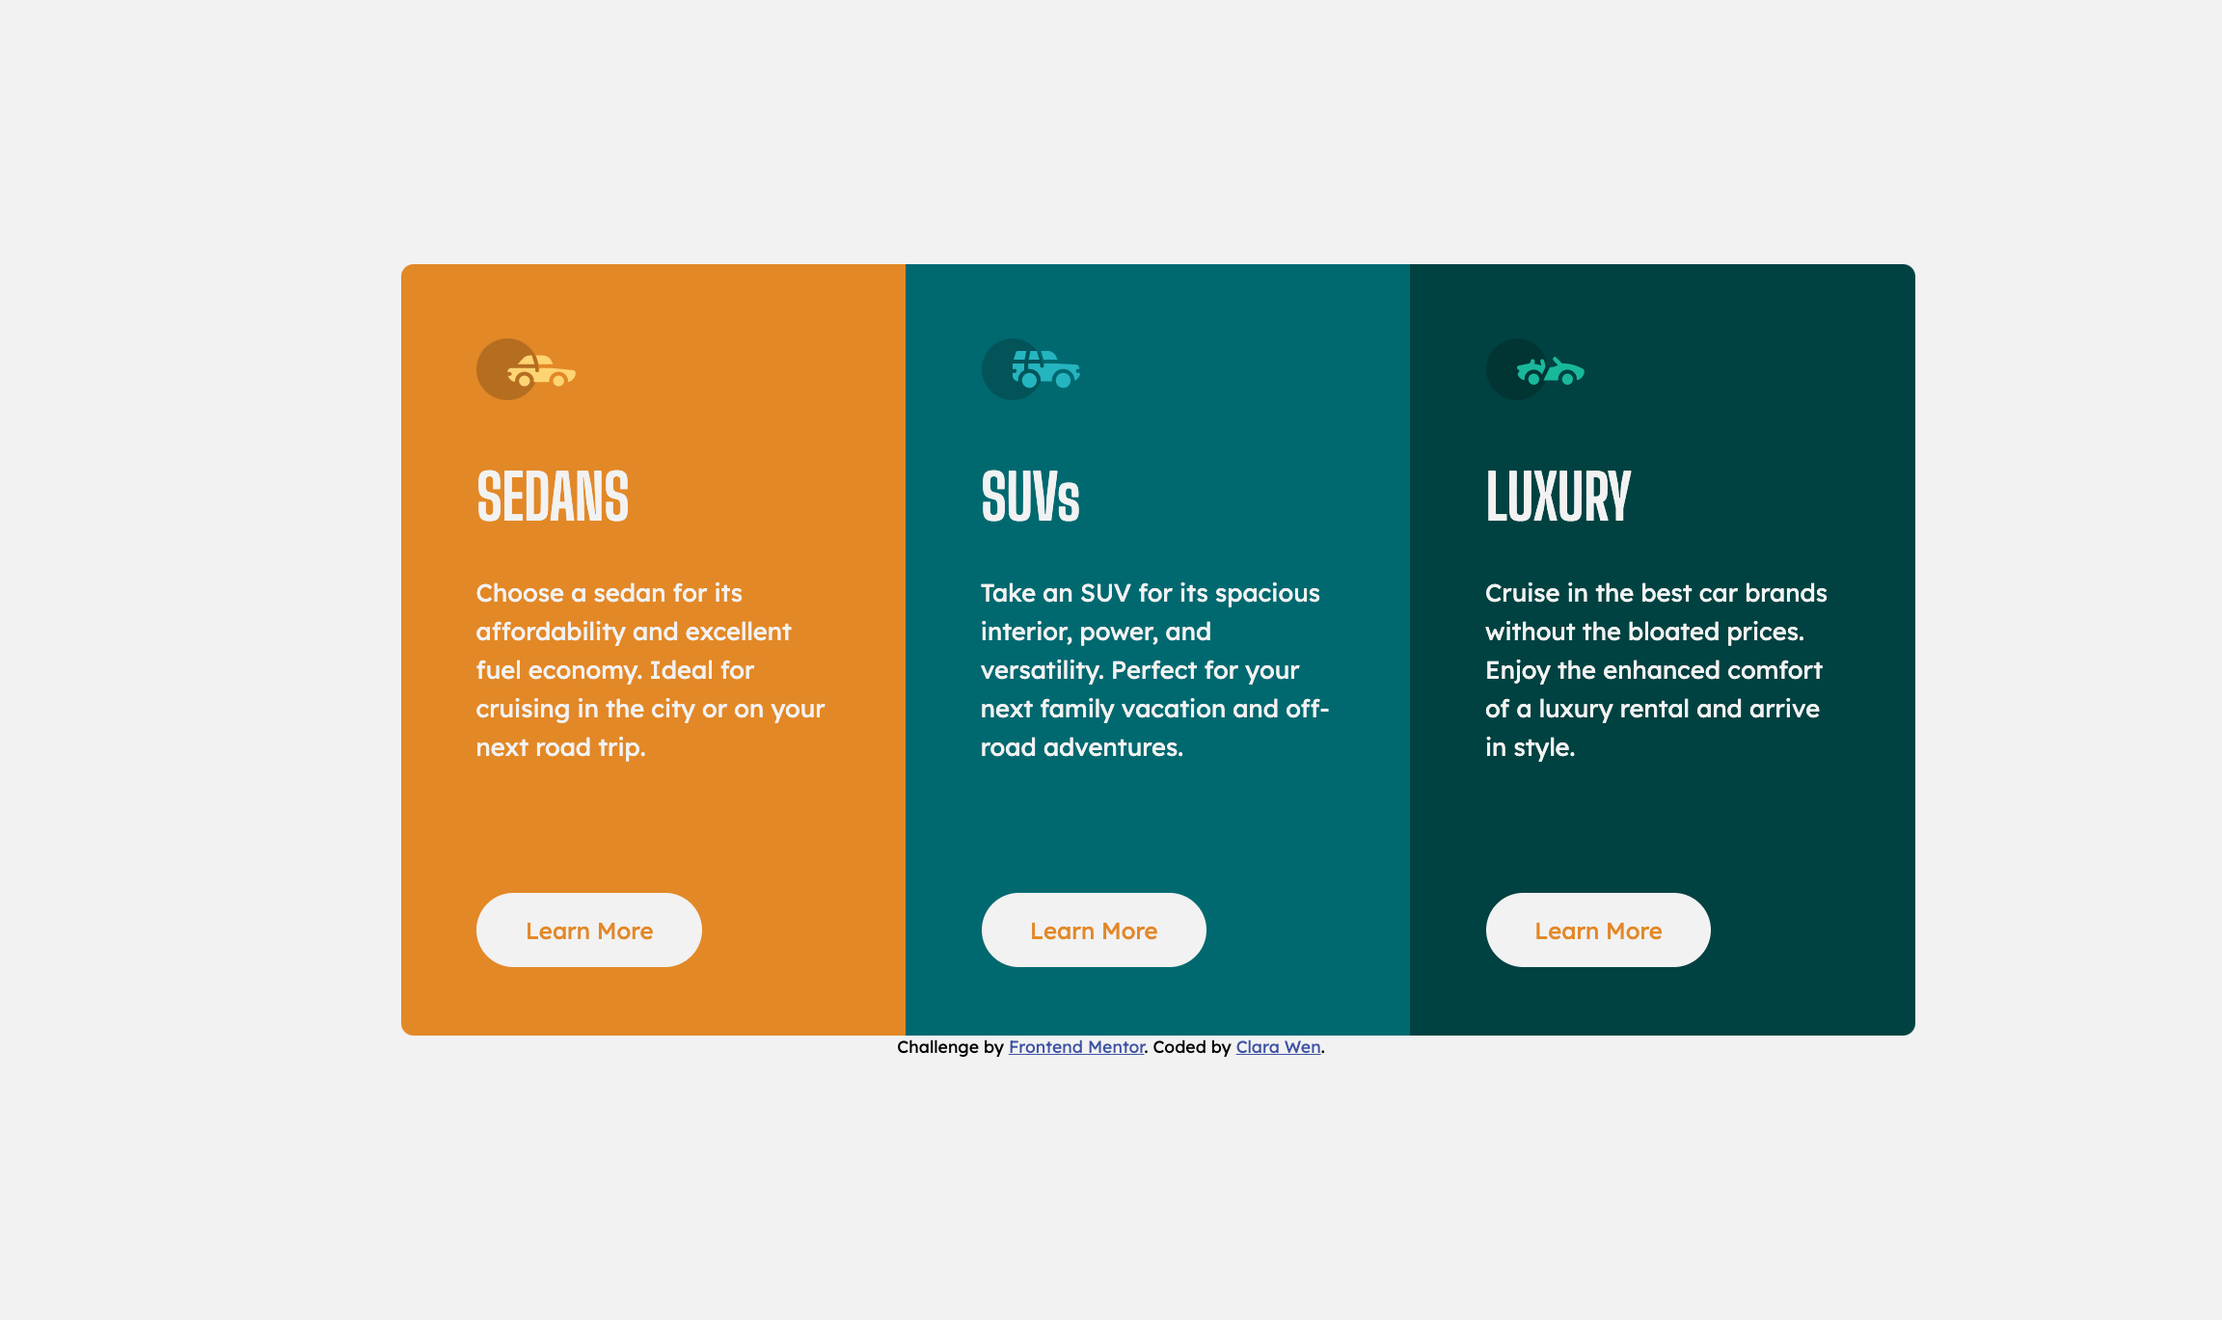
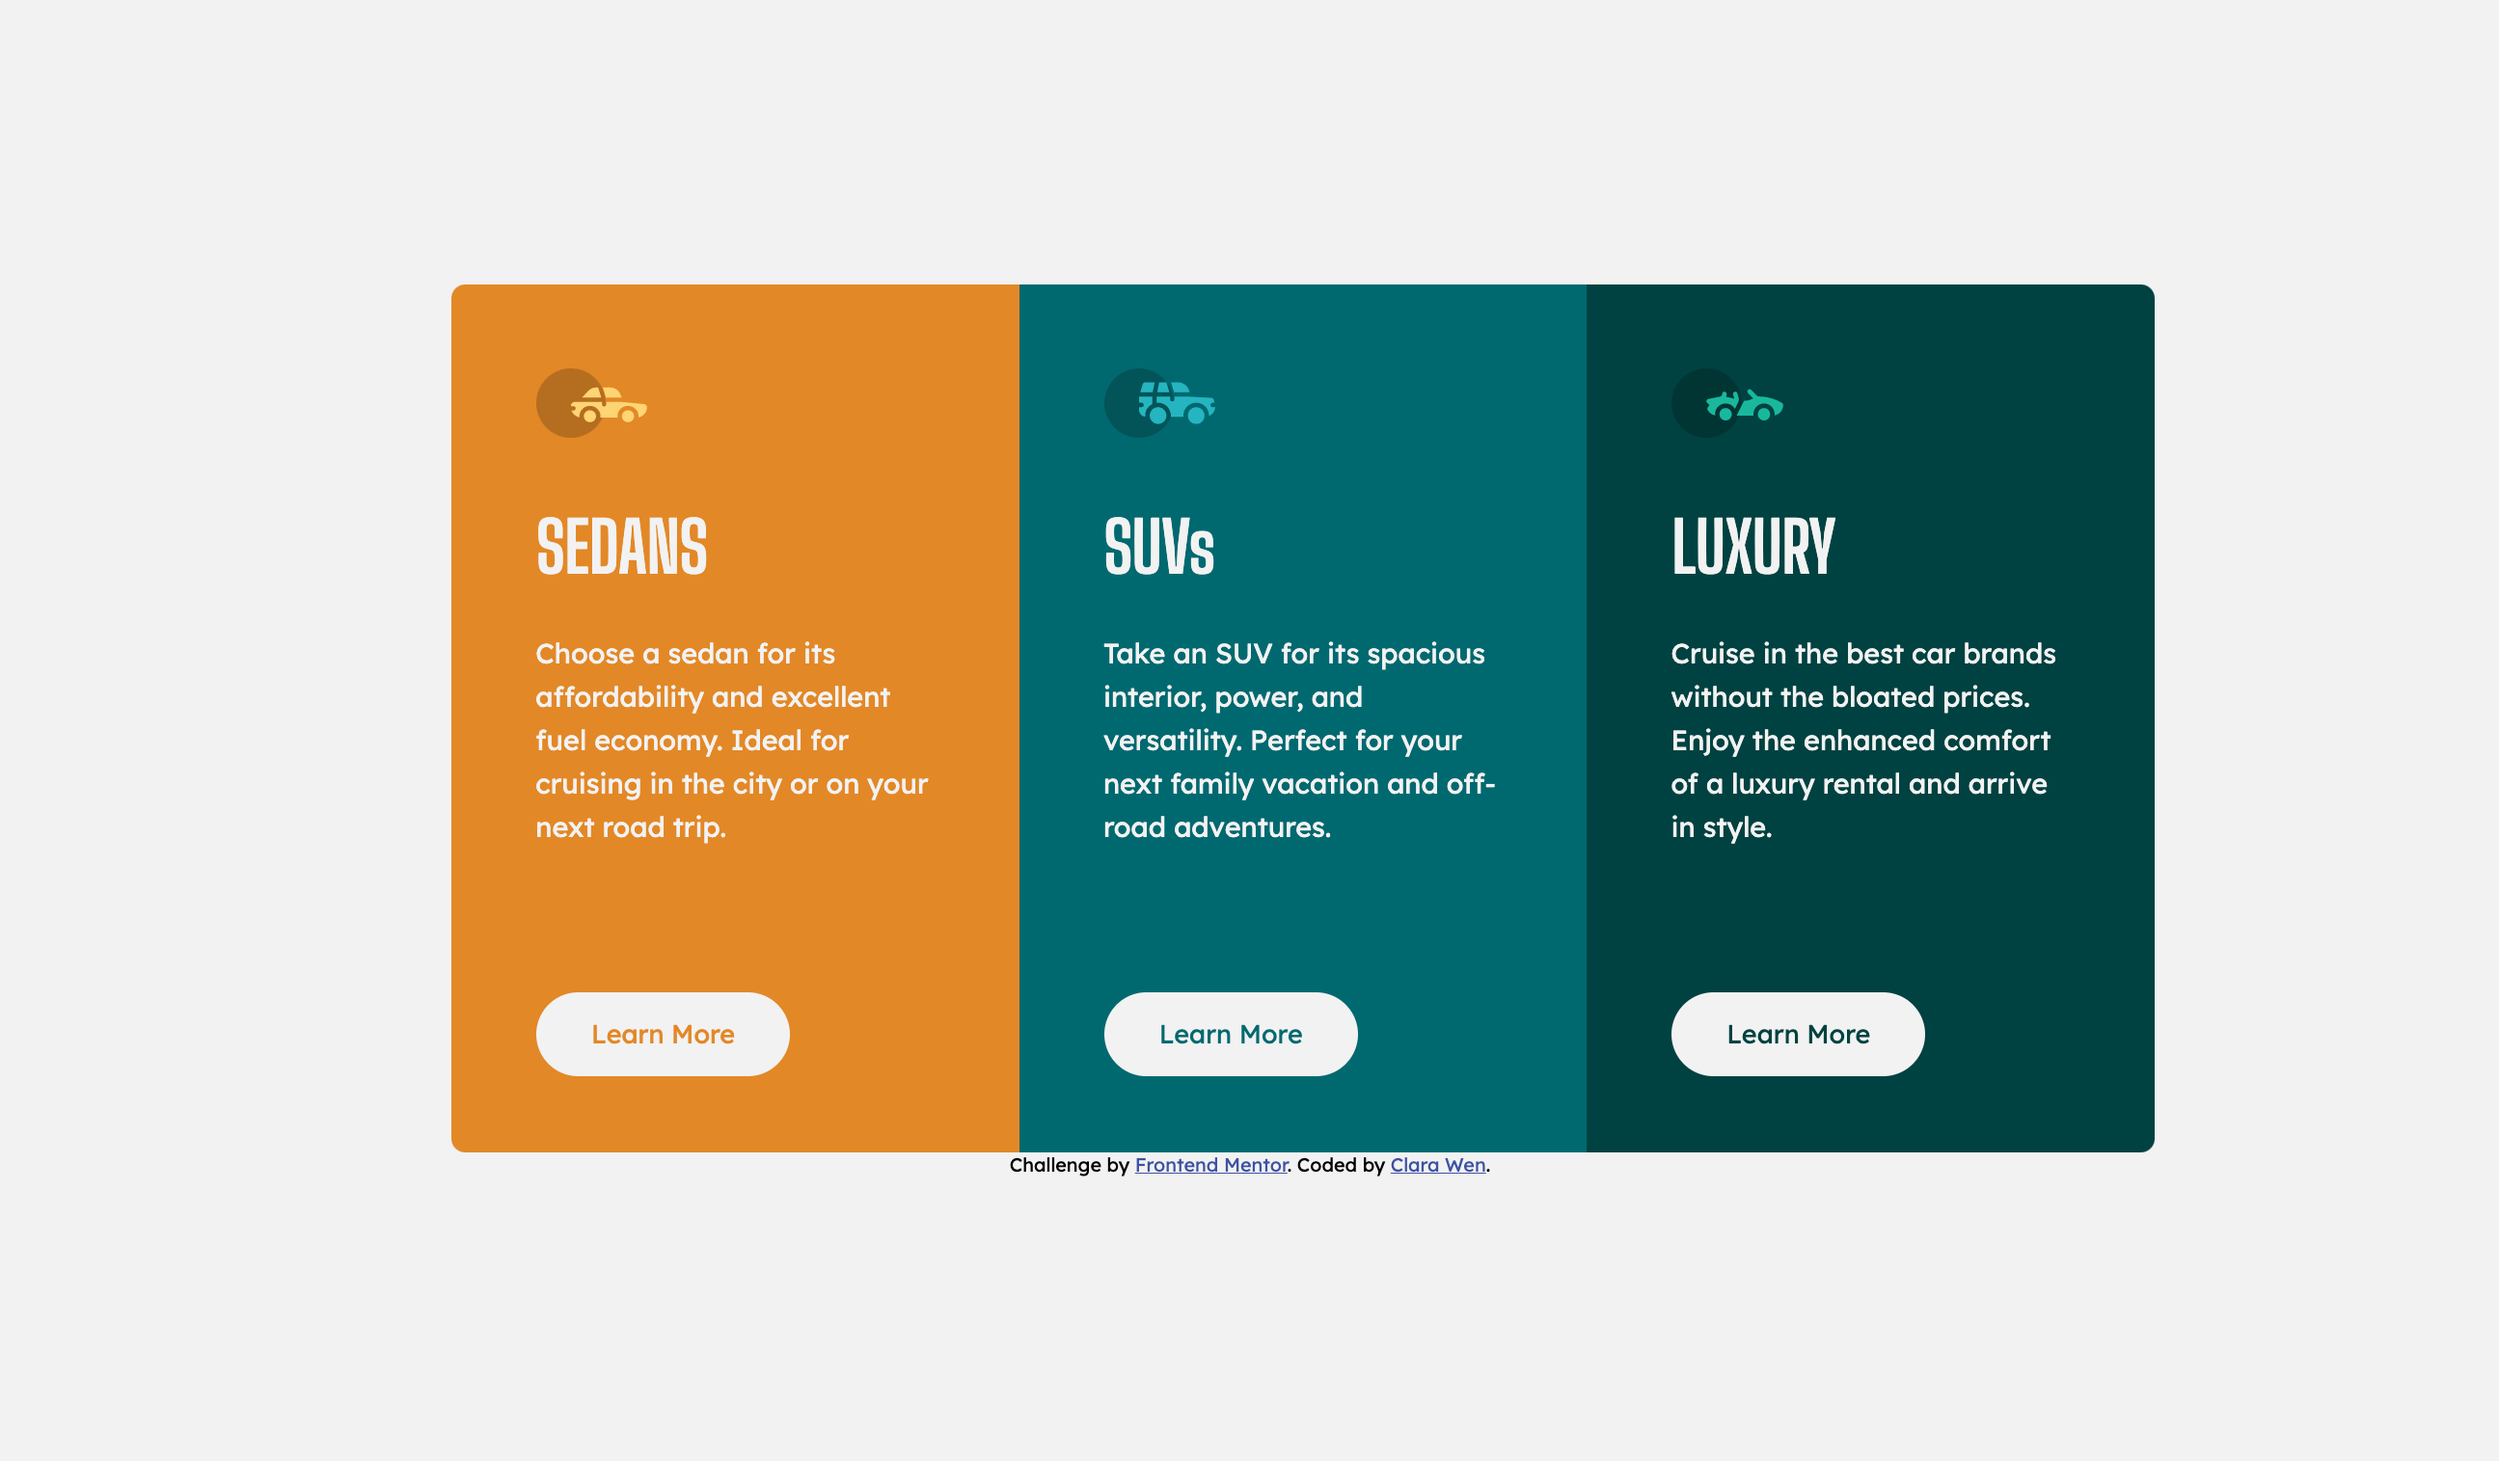
updated screenshot

diff --git a/columnPreviewCardComponent/styles.css b/columnPreviewCardComponent/styles.css
@@ -32,6 +32,8 @@ body {
     width: 327px;
     height: 1326px;
 
+    margin: 0 auto;
+
     display: flex;
     align-items: center;
     justify-content: center;
